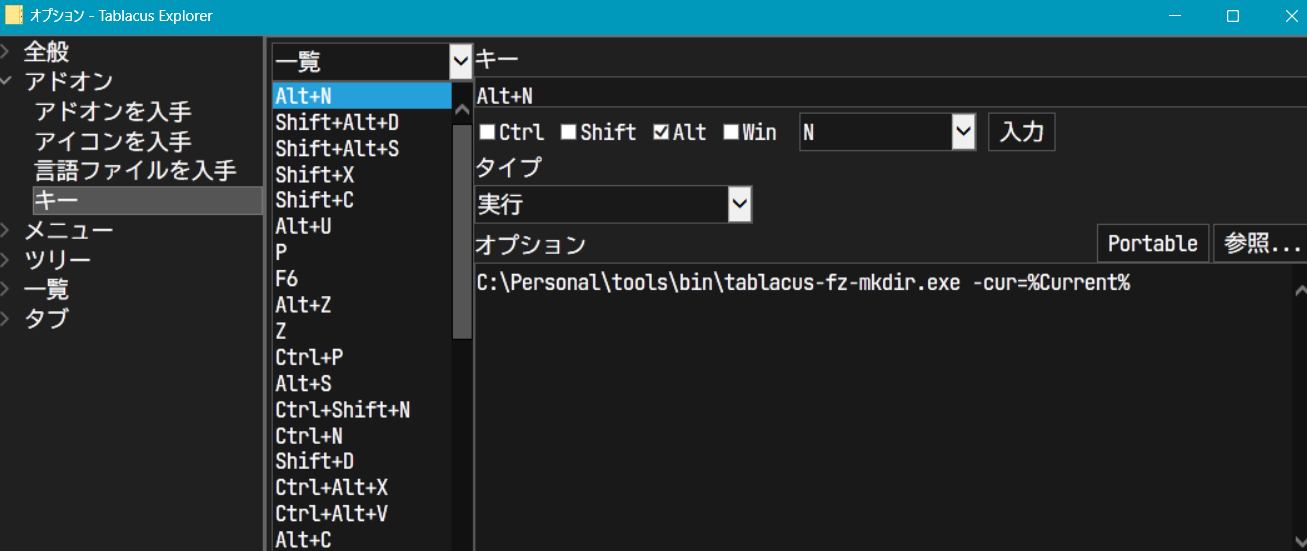
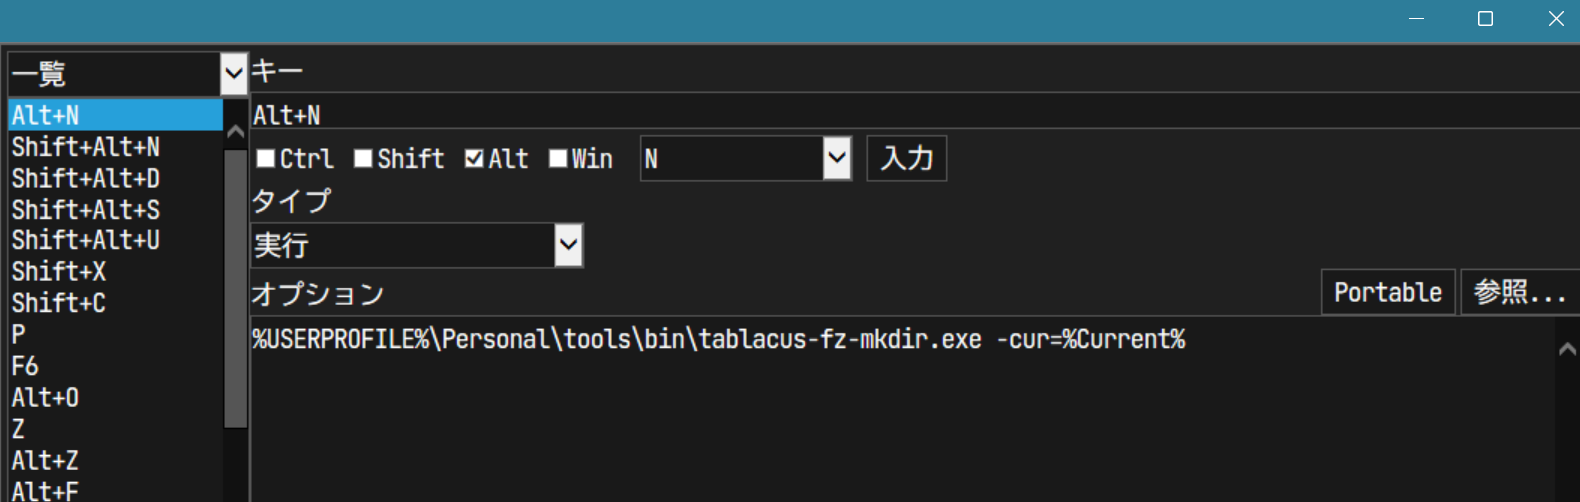
update

Changed region(s): [[0.0, 0.0, 1.0, 1.0], [0.9793, 0.9562, 1.0, 1.0], [0.9793, 0.6873, 1.0, 0.7171]]

diff --git a/main.go b/main.go
@@ -5,157 +5,60 @@ import (
 	"fmt"
 	"os"
 	"path/filepath"
-	"sort"
-	"strconv"
 	"strings"
 
-	"github.com/ktr0731/go-fuzzyfinder"
+	"github.com/AWtnb/tablacus-fz-mkdir/dir"
 )
 
 func main() {
 	var (
-		cur  string
-		menu string
+		cur string
 	)
 	flag.StringVar(&cur, "cur", "", "current dir path")
-	flag.StringVar(&menu, "menu", "", "menu file path")
 	flag.Parse()
-	os.Exit(run(cur, menu))
+	os.Exit(run(cur))
 }
 
-func run(c string, menu string) int {
-	names := getMenu(menu)
-	if len(names) < 1 {
-		names = []string{"plain", "proofed", "send_to_author", "proofed_by_author", "send_to_printshop", "layout"}
-	}
-	idx, err := fuzzyfinder.Find(names, func(i int) string {
-		return names[i]
-	}, fuzzyfinder.WithCursorPosition(fuzzyfinder.CursorPositionTop))
+func run(c string) int {
+	yp, err := findYaml(c)
 	if err != nil {
-		if err == fuzzyfinder.ErrAbort {
-			return 0
-		}
+		fmt.Println(err)
 		return 1
 	}
-	name := names[idx]
-	var pre string
-	if ds := getIndexedDirs(c); 0 < len(ds) {
-		sorted := sort.StringSlice(ds)
-		last := sorted[len(sorted)-1]
-		dn := DirName{Name: last}
-		idx := dn.incrementIndex()
-		pre = fmt.Sprintf("%v_", idx)
-	} else {
-		pre = "0_"
+	var dns dir.DirNames
+	if err := dns.Load(yp); err != nil {
+		fmt.Println(err)
+		return 1
 	}
-	newpath := filepath.Join(c, pre+name)
-	if err := newDir(newpath); err != nil {
+
+	dn, err := dns.Select()
+	if err != nil {
+		fmt.Println(err)
+		return 1
+	}
+
+	wd := dir.WorkDir{Path: c}
+	if err := wd.Scan(); err != nil {
+		fmt.Println(err)
+		return 1
+	}
+	nn := wd.WithIndex(dn)
+	if err := wd.NewDir(nn); err != nil {
+		fmt.Println(err)
 		return 1
 	}
 	return 0
 }
 
-func readFile(path string) string {
-	if !isValidPath(path) {
-		return ""
-	}
-	data, err := os.ReadFile(path)
-	if err != nil {
-		fmt.Println(err)
-		return ""
-	}
-	return string(data)
-}
-
-func isValidPath(filename string) bool {
-	_, err := os.Stat(filename)
-	return err == nil
-}
-
-func getMenu(src string) []string {
-	names := []string{}
-	var t string
-	if isValidPath(src) {
-		t = readFile(src)
-	} else {
-		e, _ := os.Executable()
-		p := filepath.Join(filepath.Dir(e), "menu.txt")
-		t = readFile(p)
-	}
-	if len(t) < 1 {
-		return names
-	}
-	for _, l := range strings.Split(t, "\n") {
-		l = strings.Trim(l, " ")
-		l = strings.Trim(l, "\r")
-		if 0 < len(l) {
-			names = append(names, l)
+func findYaml(curPath string) (string, error) {
+	elems := strings.Split(curPath, string(os.PathSeparator))
+	for i := 0; i <= len(elems); i++ {
+		ln := len(elems) - i
+		d := strings.Join(elems[0:ln], string(os.PathSeparator))
+		p := filepath.Join(d, "dirnames.yaml")
+		if _, err := os.Stat(p); err == nil {
+			return p, nil
 		}
 	}
-	return names
-}
-
-type DirName struct {
-	Name string
-}
-
-func (dn DirName) getIndex() string {
-	idx := ""
-	for i := 0; i < len(dn.Name); i++ {
-		c := string(dn.Name[i])
-		_, err := strconv.Atoi(c)
-		if err != nil {
-			break
-		}
-		idx += c
-	}
-	return idx
-}
-
-func (dn DirName) getIndexValue() int {
-	idx := dn.getIndex()
-	if len(idx) < 1 {
-		return -1
-	}
-	i, err := strconv.Atoi(idx)
-	if err != nil {
-		return -1
-	}
-	return i
-}
-
-func (dn DirName) incrementIndex() string {
-	i := dn.getIndexValue()
-	if i < 0 {
-		return ""
-	}
-	i += 1
-	w := len(dn.getIndex())
-	return fmt.Sprintf("%0"+strconv.Itoa(w)+"d", i)
-}
-
-func getIndexedDirs(root string) []string {
-	var ds []string
-	items, err := os.ReadDir(root)
-	if err != nil {
-		return ds
-	}
-	for _, item := range items {
-		if item.IsDir() {
-			n := item.Name()
-			dn := DirName{Name: n}
-			if -1 < dn.getIndexValue() {
-				ds = append(ds, n)
-			}
-		}
-	}
-	return ds
-}
-
-func newDir(path string) error {
-	s, err := os.Stat(path)
-	if err == nil && s.IsDir() {
-		return err
-	}
-	return os.Mkdir(path, os.ModePerm)
+	return "", fmt.Errorf("yaml not found")
 }

diff --git a/dir/workdir.go b/dir/workdir.go
@@ -1,0 +1,92 @@
+package dir
+
+import (
+	"fmt"
+	"os"
+	"path/filepath"
+	"sort"
+	"strconv"
+	"strings"
+)
+
+func hasNumberPrefix(name string) bool {
+	for i := 0; i < 10; i++ {
+		c := fmt.Sprint(i)
+		if strings.HasPrefix(name, c) {
+			return true
+		}
+	}
+	return false
+}
+
+func getNumberPrefix(name string) string {
+	pre := ""
+	for i := 0; i < len(name); i++ {
+		c := string(name[i])
+		if _, err := strconv.Atoi(c); err != nil {
+			break
+		}
+		pre += c
+	}
+	return pre
+}
+
+type WorkDir struct {
+	Path    string
+	subdirs []string
+}
+
+func (wd *WorkDir) Scan() error {
+	items, err := os.ReadDir(wd.Path)
+	if err != nil {
+		return err
+	}
+	for _, item := range items {
+		if item.IsDir() {
+			wd.subdirs = append(wd.subdirs, item.Name())
+		}
+	}
+	return nil
+}
+
+func (wd WorkDir) getIndexedMember() (dirnames []string) {
+	dirs := wd.subdirs
+	for _, dir := range dirs {
+		if hasNumberPrefix(dir) {
+			dirnames = append(dirnames, dir)
+		}
+	}
+	return
+}
+
+func (wd WorkDir) getNameWithLargestIndex() string {
+	ds := wd.getIndexedMember()
+	if len(ds) < 1 {
+		return ""
+	}
+	sorted := sort.StringSlice(ds)
+	return sorted[len(sorted)-1]
+}
+
+func (wd WorkDir) WithIndex(name string) (newname string) {
+	newname = fmt.Sprintf("0_%s", name)
+	l := wd.getNameWithLargestIndex()
+	if len(l) < 1 {
+		return
+	}
+	p := Prefix{text: getNumberPrefix(l)}
+	pre, err := p.Increment()
+	if err != nil {
+		return
+	}
+	newname = fmt.Sprintf("%s_%s", pre, name)
+	return
+}
+
+func (wd WorkDir) NewDir(name string) error {
+	path := filepath.Join(wd.Path, name)
+	if fi, err := os.Stat(path); err == nil && fi.IsDir() {
+		return err
+	}
+	return os.Mkdir(path, os.ModePerm)
+}

diff --git a/dir/dirnames.go b/dir/dirnames.go
@@ -1,0 +1,48 @@
+package dir
+
+import (
+	"fmt"
+	"os"
+	"strings"
+
+	"github.com/ktr0731/go-fuzzyfinder"
+	"gopkg.in/yaml.v2"
+)
+
+type DirName struct {
+	Name    string
+	Aliases []string
+}
+
+type DirNames struct {
+	entries []DirName
+}
+
+func (dns *DirNames) Load(path string) error {
+	buf, err := os.ReadFile(path)
+	if err != nil {
+		return err
+	}
+	if err := yaml.Unmarshal(buf, &dns.entries); err != nil {
+		return err
+	}
+	return nil
+}
+
+func (dns DirNames) Select() (string, error) {
+	if len(dns.entries) < 1 {
+		return "", fmt.Errorf("no options to pick")
+	}
+	idx, err := fuzzyfinder.Find(dns.entries, func(i int) string {
+		e := dns.entries[i]
+		if 0 < len(e.Aliases) {
+			return fmt.Sprintf("%s[%s]", e.Name, strings.Join(e.Aliases, ","))
+		}
+		return e.Name
+	})
+	if err != nil {
+		return "", err
+	}
+	de := dns.entries[idx]
+	return de.Name, nil
+}

diff --git a/dir/prefix.go b/dir/prefix.go
@@ -1,0 +1,32 @@
+package dir
+
+import (
+	"fmt"
+	"strconv"
+)
+
+type Prefix struct {
+	text string
+}
+
+func (pre Prefix) getValue() int {
+	i, err := strconv.Atoi(pre.text)
+	if err != nil {
+		return -1
+	}
+	return i
+}
+
+func (pre Prefix) getWidth() int {
+	return len(pre.text)
+}
+
+func (pre Prefix) Increment() (string, error) {
+	i := pre.getValue()
+	if i < 0 {
+		return "", fmt.Errorf("failed to increment index")
+	}
+	i += 1
+	w := pre.getWidth()
+	return fmt.Sprintf("%0"+strconv.Itoa(w)+"d", i), nil
+}

diff --git a/README.md b/README.md
@@ -2,13 +2,8 @@
 
 Command line tool for [Tablacus Explorer](https://tablacus.github.io/explorer.html).
 
-- Show fuzzy-finder and create directory with selected name.
-- Possible directory names:
-    - `plain`
-    - `proofed`
-    - `send_to_author`
-    - `proofed_by_author`
-    - `send_to_printshop` and so on...
-- If a directory with an index number (i.e., the name of the directory begins with a number; `0_plain`, `1_proofed`, ...) exists in working directory, incremented index is inserted to the beginning of the new directory name.
+
+1. Traverse the path in reverse order (first the parent folder, then its parent folder, and so on...) and display fuzzy-finder based on the first-found [`dirnames.yaml`](/dirnames.yaml).
+1. If a directory with an index number (i.e., the name of the directory begins with a number; `0_plain`, `1_proofed`, ...) exists in working directory, incremented index is inserted to the beginning of the new directory name.
 
 ![img](image.png)
